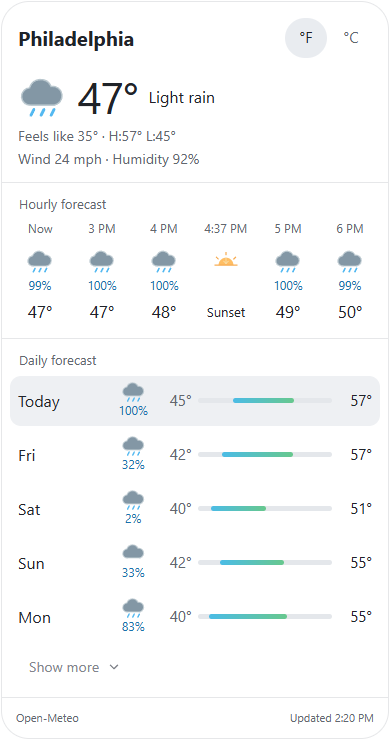
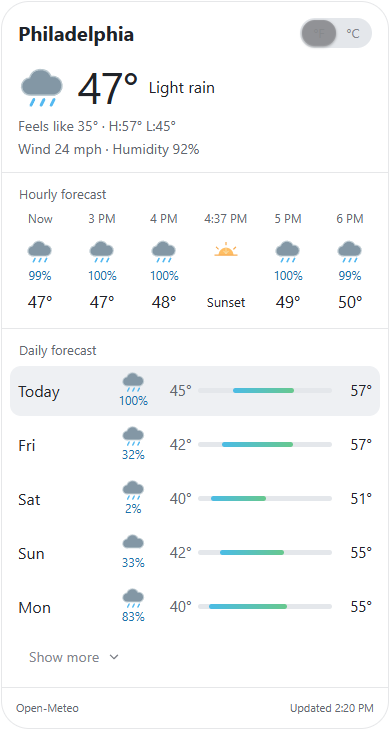
feat: compact unit switch on desktop, separate buttons on touch

diff --git a/skills/weather-cards/scripts/card.html b/skills/weather-cards/scripts/card.html
@@ -5,7 +5,7 @@
 @media(prefers-color-scheme:dark){:root:not([data-theme=light]){--wc-bg:#131313;--wc-card:#202020;--wc-fg:#f4f4f5;--wc-muted:#a4a4aa;--wc-line:#323234;--wc-selected:#3b3b40;--wc-track:#414145;--wc-blue:#9dcafa;--wc-button:#343438}}
 :root[data-theme=dark]{--wc-bg:#131313;--wc-card:#202020;--wc-fg:#f4f4f5;--wc-muted:#a4a4aa;--wc-line:#323234;--wc-selected:#3b3b40;--wc-track:#414145;--wc-blue:#9dcafa;--wc-button:#343438}
 *{box-sizing:border-box}html,body{background:transparent}body{margin:0;padding:1px;color:var(--foreground,var(--wc-fg));font:15px/1.45 -apple-system,BlinkMacSystemFont,"Segoe UI",sans-serif}.card{max-width:640px;min-width:0;margin:0;border:1px solid var(--border,var(--wc-line));border-radius:28px;overflow:hidden;background:var(--card,var(--wc-card));color:var(--card-foreground,var(--wc-fg))}.current{padding:18px 18px 14px}header{display:flex;align-items:center;gap:12px;justify-content:space-between;margin-bottom:12px}h1{font-size:20px;line-height:1.2;margin:0;font-weight:650;overflow-wrap:anywhere;min-width:0}.units{display:flex;gap:3px;flex-shrink:0}button{font:inherit;color:inherit;border:0;cursor:pointer}button:focus-visible,a:focus-visible,.hours:focus-visible{outline:2px solid #38bdf8;outline-offset:2px}.units button{width:42px;height:40px;border-radius:24px;background:transparent;color:var(--muted-foreground,var(--wc-muted))}.units [aria-pressed=true]{background:var(--wc-button);color:var(--wc-fg)}.hero{display:flex;gap:14px;align-items:center}.hero .icon{width:49px;height:49px}.temp{font-size:46px;line-height:1.2;letter-spacing:-1.5px;font-weight:450}.condition{font-size:18px}.detail{color:var(--muted-foreground,var(--wc-muted));margin-top:3px;font-size:14px}.section{border-top:1px solid var(--border,var(--wc-line));padding:12px 8px 14px}.label{font-size:13px;font-weight:400;color:var(--muted-foreground,var(--wc-muted));margin:0 9px 6px}.hours{display:flex;gap:2px;overflow-x:auto;overscroll-behavior-x:contain;padding:0 1px 5px;scrollbar-width:thin;scrollbar-color:var(--wc-track) transparent;scroll-snap-type:x proximity}.hour{flex:0 0 60px;text-align:center;scroll-snap-align:start}.hour-time{font-size:12px;color:var(--muted-foreground,var(--wc-muted));white-space:nowrap;height:25px}.icon{width:28px;height:28px;display:inline-block;vertical-align:middle}.hour .icon{margin:2px 0}.pop{color:var(--wc-blue);font-size:12px;min-height:18px}.hour-temp{font-size:17px;margin-top:4px}.hour.sun .hour-temp{font-size:13px;margin-top:8px}.day{display:grid;grid-template-columns:minmax(45px,1fr) 43px 39px minmax(55px,1.6fr) 40px;align-items:center;gap:8px;min-height:50px;padding:3px 9px;border-radius:11px}.day.selected{background:var(--wc-selected)}button.day{width:100%;border:0;font:inherit;color:inherit;text-align:left;background:transparent;cursor:pointer}button.day:hover:not(.selected){background:color-mix(in srgb,var(--wc-selected) 55%,transparent)}button.day:focus-visible{outline:2px solid var(--wc-blue,#5ab8f0);outline-offset:-2px}.day-name{font-size:16px}.daily-weather{text-align:center;line-height:1.1}.daily-weather .icon{width:25px;height:25px}.low{text-align:right;color:var(--muted-foreground,var(--wc-muted))}.high{text-align:right}.track{height:5px;border-radius:10px;background:var(--wc-track);position:relative;overflow:hidden}.range{position:absolute;top:0;height:100%;min-width:2px;border-radius:10px;background:linear-gradient(90deg,#4bbce6,#67c88e)}.more{background:transparent;color:var(--muted-foreground,var(--wc-muted));margin:9px 0 0 7px;padding:6px 12px;border:0;border-radius:999px;font:inherit;font-size:14px;display:inline-flex;align-items:center;gap:8px;line-height:20px;cursor:pointer;transition:background-color .15s ease,color .15s ease}.more:hover,.more:focus-visible{background:var(--wc-selected);color:var(--foreground,var(--wc-fg))}.more:focus-visible{outline:2px solid var(--wc-blue);outline-offset:1px}.more svg{width:14px;height:14px;display:block;flex:none}.more[aria-expanded=true] svg{transform:rotate(180deg)}.footer{border-top:1px solid var(--border,var(--wc-line));padding:12px 16px;color:var(--muted-foreground,var(--wc-muted));font-size:11px}.footer-line{display:flex;gap:10px;justify-content:space-between;flex-wrap:wrap}.footer a{color:inherit;text-decoration:none}.footer a:hover{text-decoration:underline}.note{margin-top:5px;font-size:10px}.provenance{margin-top:5px}.provenance summary{cursor:pointer;font-size:10px}.footer{padding-top:9px;padding-bottom:9px}.error{padding:20px;color:var(--wc-fg)}[hidden]{display:none!important}@media(max-width:390px){.current{padding:16px 16px 13px}.day{gap:6px;padding:3px 8px;grid-template-columns:minmax(43px,1fr) 39px 33px minmax(48px,1.5fr) 34px}.condition{font-size:16px}.temp{font-size:44px}.hero{gap:11px}.footer{padding:12px 14px}}
-.hours-wrap{position:relative}.hours{touch-action:pan-x pan-y;scrollbar-width:none;-ms-overflow-style:none;padding-bottom:0}.hours::-webkit-scrollbar{display:none}.hour-nav{position:absolute;top:50%;z-index:2;width:30px;height:30px;margin-top:-15px;border-radius:50%;display:grid;place-items:center;background:color-mix(in srgb,var(--card,var(--wc-card)) 82%,var(--foreground,var(--wc-fg)) 18%);color:var(--foreground,var(--wc-fg));box-shadow:0 2px 10px rgba(0,0,0,.22)}.hour-nav svg{width:15px;height:15px;fill:none;stroke:currentColor;stroke-width:1.8;stroke-linecap:round;stroke-linejoin:round}.hour-nav.prev{left:2px}.hour-nav.next{right:2px}.hour-nav{opacity:0;pointer-events:none;transition:opacity .15s ease}.hours-wrap:hover .hour-nav,.hours-wrap:focus-within .hour-nav{opacity:1;pointer-events:auto}@media(hover:none){.hour-nav{display:none!important}.hours{scroll-snap-type:x proximity;-webkit-overflow-scrolling:touch;overscroll-behavior-x:contain}.hour{scroll-snap-align:start}}.hour-nav[hidden]{display:none}#days{display:flex;flex-direction:column;gap:4px}</style></head><body><main class="card" aria-label="Weather forecast"><section class="current"><header><h1 id="city">__TITLE__</h1><div class="units" role="group" aria-label="Temperature units"><button id="fahrenheit" aria-pressed="true" aria-label="Fahrenheit">°F</button><button id="celsius" aria-pressed="false" aria-label="Celsius">°C</button></div></header><div class="hero" id="hero"></div><div class="detail" id="feels"></div><div class="detail" id="wind"></div></section><section class="section"><h2 class="label" id="hours-label">Hourly forecast</h2><div class="hours-wrap"><button class="hour-nav prev" id="hours-prev" aria-label="Earlier hours" hidden><svg viewBox="0 0 16 16" aria-hidden="true"><path d="m10 3-5 5 5 5"/></svg></button><div class="hours" id="hours" tabindex="0" aria-label="Hourly forecast"></div><button class="hour-nav next" id="hours-next" aria-label="Later hours"><svg viewBox="0 0 16 16" aria-hidden="true"><path d="m6 3 5 5-5 5"/></svg></button></div></section><section class="section"><h2 class="label">Daily forecast</h2><div id="days"></div><button class="more" id="more" aria-expanded="false" aria-controls="days">Show more <span aria-hidden="true">⌄</span></button></section><footer class="footer"><div class="footer-line"><a href="https://open-meteo.com/" target="_blank" rel="noopener noreferrer">Open-Meteo</a><span id="valid"></span></div></footer></main>
+.hours-wrap{position:relative}.hours{touch-action:pan-x pan-y;scrollbar-width:none;-ms-overflow-style:none;padding-bottom:0}.hours::-webkit-scrollbar{display:none}.hour-nav{position:absolute;top:50%;z-index:2;width:30px;height:30px;margin-top:-15px;border-radius:50%;display:grid;place-items:center;background:color-mix(in srgb,var(--card,var(--wc-card)) 82%,var(--foreground,var(--wc-fg)) 18%);color:var(--foreground,var(--wc-fg));box-shadow:0 2px 10px rgba(0,0,0,.22)}.hour-nav svg{width:15px;height:15px;fill:none;stroke:currentColor;stroke-width:1.8;stroke-linecap:round;stroke-linejoin:round}.hour-nav.prev{left:2px}.hour-nav.next{right:2px}.hour-nav{opacity:0;pointer-events:none;transition:opacity .15s ease}.hours-wrap:hover .hour-nav,.hours-wrap:focus-within .hour-nav{opacity:1;pointer-events:auto}@media(hover:none){.hour-nav{display:none!important}.hours{scroll-snap-type:x proximity;-webkit-overflow-scrolling:touch;overscroll-behavior-x:contain}.hour{scroll-snap-align:start}}.hour-nav[hidden]{display:none}#days{display:flex;flex-direction:column;gap:4px}@media(hover:hover) and (pointer:fine){.units{gap:0;padding:2px;border-radius:999px;background:var(--wc-track)}.units button{width:34px;height:26px;border-radius:999px;font-size:13px;transition:background-color .15s ease,color .15s ease,box-shadow .15s ease}.units [aria-pressed=true]{background:var(--wc-button);color:var(--foreground,var(--wc-fg));box-shadow:0 1px 3px rgba(0,0,0,.35),inset 0 0 0 1px rgba(255,255,255,.06)}.units button:not([aria-pressed=true]):hover{color:var(--foreground,var(--wc-fg))}}</style></head><body><main class="card" aria-label="Weather forecast"><section class="current"><header><h1 id="city">__TITLE__</h1><div class="units" role="group" aria-label="Temperature units"><button id="fahrenheit" aria-pressed="true" aria-label="Fahrenheit">°F</button><button id="celsius" aria-pressed="false" aria-label="Celsius">°C</button></div></header><div class="hero" id="hero"></div><div class="detail" id="feels"></div><div class="detail" id="wind"></div></section><section class="section"><h2 class="label" id="hours-label">Hourly forecast</h2><div class="hours-wrap"><button class="hour-nav prev" id="hours-prev" aria-label="Earlier hours" hidden><svg viewBox="0 0 16 16" aria-hidden="true"><path d="m10 3-5 5 5 5"/></svg></button><div class="hours" id="hours" tabindex="0" aria-label="Hourly forecast"></div><button class="hour-nav next" id="hours-next" aria-label="Later hours"><svg viewBox="0 0 16 16" aria-hidden="true"><path d="m6 3 5 5-5 5"/></svg></button></div></section><section class="section"><h2 class="label">Daily forecast</h2><div id="days"></div><button class="more" id="more" aria-expanded="false" aria-controls="days">Show more <span aria-hidden="true">⌄</span></button></section><footer class="footer"><div class="footer-line"><a href="https://open-meteo.com/" target="_blank" rel="noopener noreferrer">Open-Meteo</a><span id="valid"></span></div></footer></main>
 <script id="weather-data" type="application/json">__DATA__</script>
 <script>
 'use strict';

diff --git a/tests/browser_check.py b/tests/browser_check.py
@@ -125,9 +125,12 @@ def check_hour_controls(browser, file):
     before = hours.evaluate('e=>e.scrollLeft'); nxt.click(); page.wait_for_timeout(700)
     assert hours.evaluate('e=>e.scrollLeft') > before
     assert page.locator('#hours-prev').is_visible()
+    track = page.locator('.units').evaluate('e=>getComputedStyle(e).backgroundColor')
+    assert track != 'rgba(0, 0, 0, 0)', 'desktop unit control should be a switch track'
     page.close()
     ctx = browser.new_context(viewport={'width': 390, 'height': 900}, has_touch=True, is_mobile=True)
     page = ctx.new_page(); page.goto(file.as_uri())
+    assert page.locator('.units').evaluate('e=>getComputedStyle(e).backgroundColor') == 'rgba(0, 0, 0, 0)', 'touch keeps the separate buttons'
     assert page.evaluate("matchMedia('(hover:none)').matches")
     assert page.locator('#hours-next').evaluate('e=>getComputedStyle(e).display') == 'none'
     box = page.locator('#hours').bounding_box(); cdp = ctx.new_cdp_session(page)
